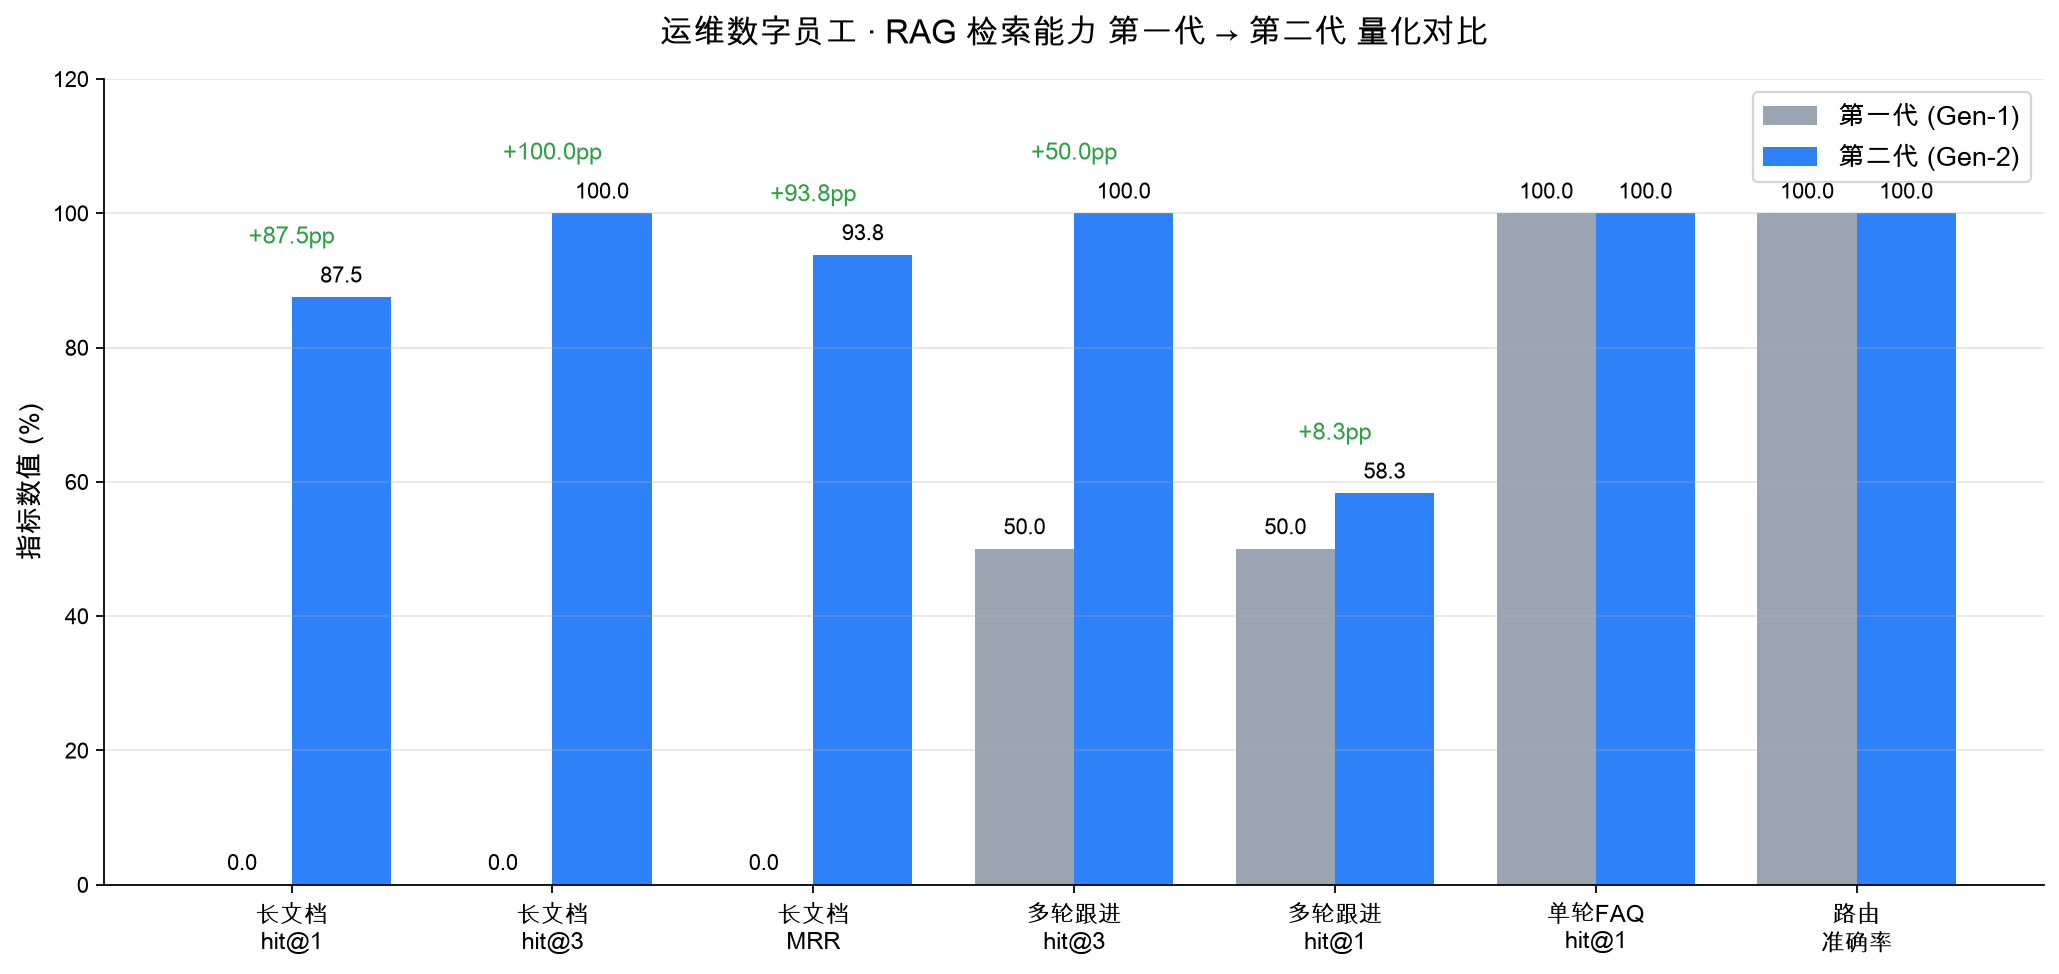
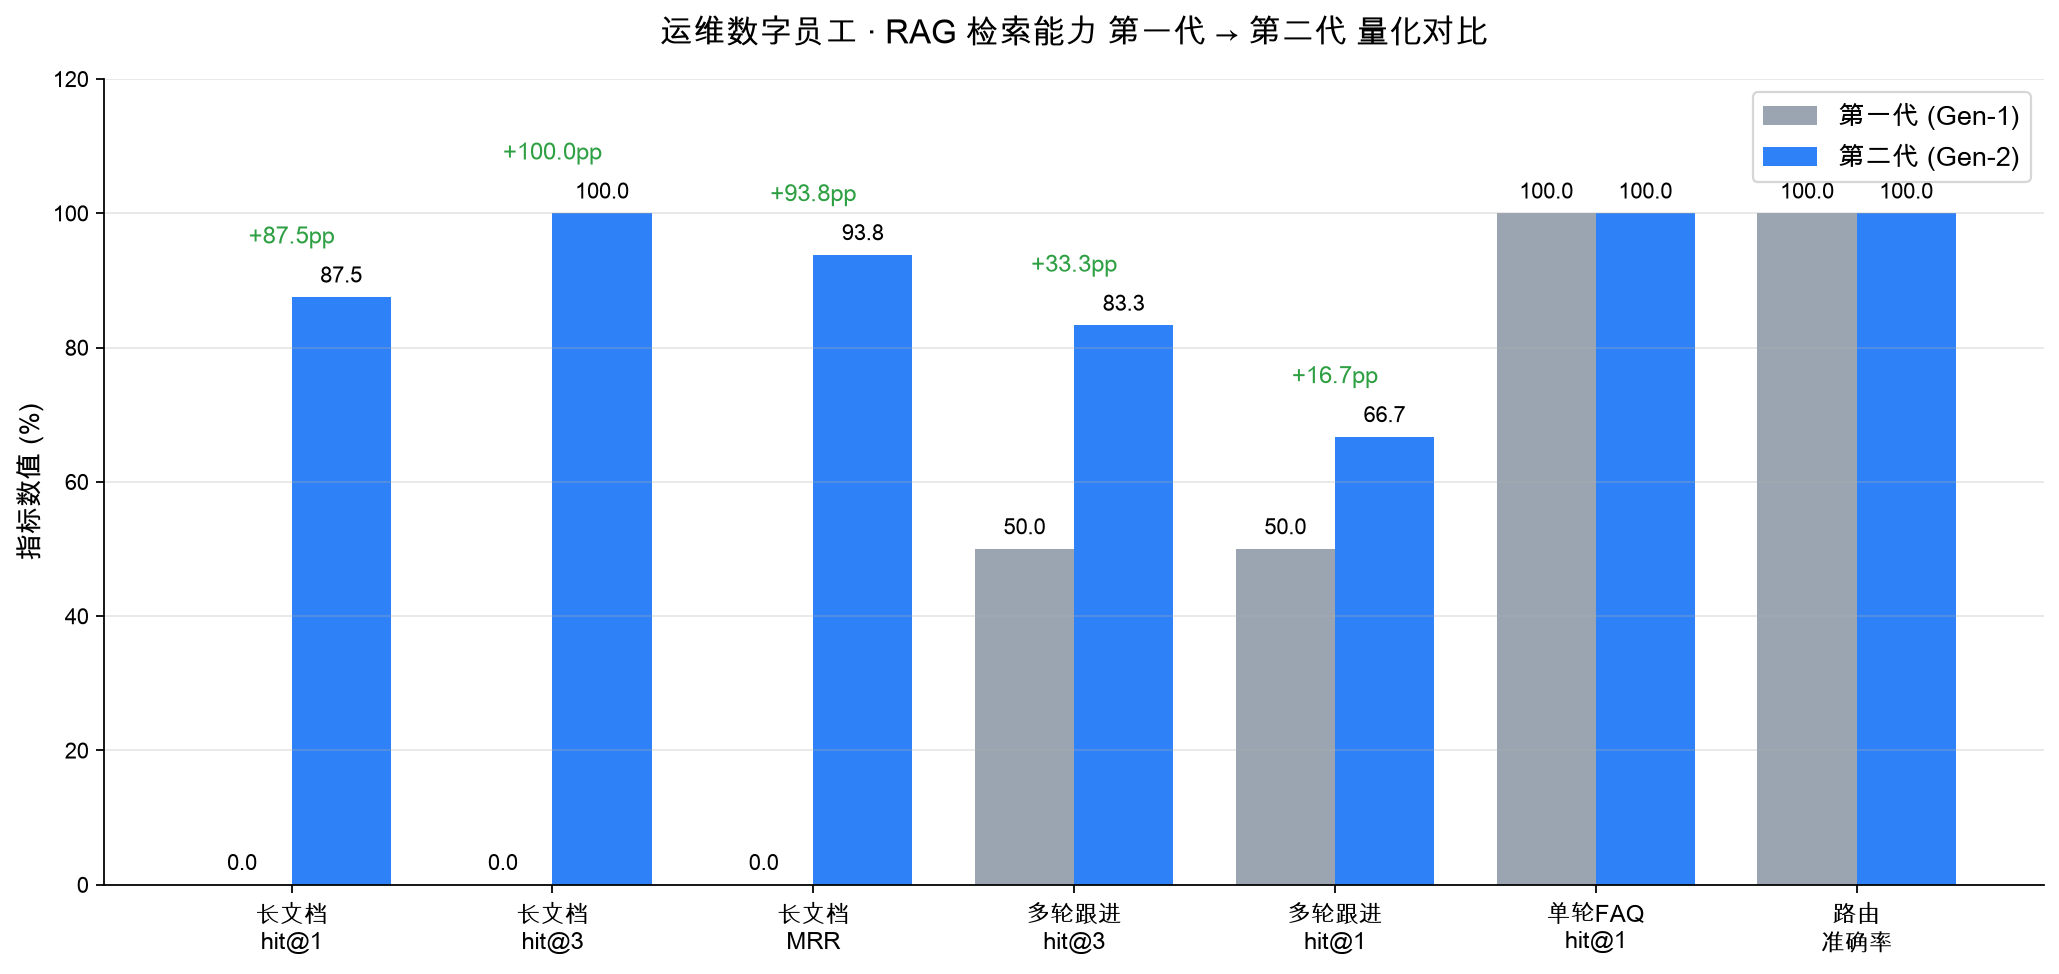
feat: 添加运维账号全生命周期管理手册和服务器告警处置手册

Changed region(s): [[0.4973, 0.154, 0.5906, 0.3388], [0.6217, 0.3696, 0.7149, 0.5236]]

diff --git a/backend/reports/make_charts.py b/backend/reports/make_charts.py
@@ -21,8 +21,8 @@ groups = [
     ("长文档\nhit@1", 0.0, 87.5),
     ("长文档\nhit@3", 0.0, 100.0),
     ("长文档\nMRR", 0.0, 93.8),
-    ("多轮跟进\nhit@3", 50.0, 100.0),
-    ("多轮跟进\nhit@1", 50.0, 58.3),
+    ("多轮跟进\nhit@3", 50.0, 83.3),
+    ("多轮跟进\nhit@1", 50.0, 66.7),
     ("单轮FAQ\nhit@1", 100.0, 100.0),
     ("路由\n准确率", 100.0, 100.0),
 ]
@@ -60,3 +60,34 @@ ax.spines[["top", "right"]].set_visible(False)
 fig.tight_layout()
 fig.savefig(OUT / "chart_v1_vs_v2.png", dpi=160, bbox_inches="tight")
 print("saved:", OUT / "chart_v1_vs_v2.png")
+
+# ---- 图2：多轮改写 LLM vs 规则兜底 对照 ----
+metrics = ["多轮 hit@1", "多轮 hit@3"]
+rule = [66.7, 83.3]
+llm = [58.3, 83.3]
+RULE = "#2ea043"  # 绿
+LLM = "#f0883e"   # 橙
+x2 = range(len(metrics))
+
+fig2, ax2 = plt.subplots(figsize=(8, 6))
+r1 = ax2.bar([i - w / 2 for i in x2], rule, w, label="规则兜底改写(确定性)", color=RULE)
+r2 = ax2.bar([i + w / 2 for i in x2], llm, w, label="LLM改写(DeepSeek-R1:1.5B)", color=LLM)
+for bars in (r1, r2):
+    for b in bars:
+        h = b.get_height()
+        ax2.text(b.get_x() + b.get_width() / 2, h + 1, f"{h:.1f}",
+                 ha="center", va="bottom", fontsize=12, fontweight="bold")
+ax2.set_xticks(list(x2))
+ax2.set_xticklabels(metrics, fontsize=12)
+ax2.set_ylabel("命中率 (%)", fontsize=12)
+ax2.set_ylim(0, 100)
+ax2.set_title("多轮改写对照：本地1.5B小模型下\n确定性规则反而优于LLM自由改写",
+              fontsize=13, fontweight="bold", pad=14)
+ax2.legend(fontsize=11, loc="upper left")
+ax2.grid(axis="y", alpha=0.3)
+ax2.spines[["top", "right"]].set_visible(False)
+ax2.annotate("规则 +8.4pp", xy=(0, 70), ha="center", color=RULE,
+             fontsize=12, fontweight="bold")
+fig2.tight_layout()
+fig2.savefig(OUT / "chart_rewrite_compare.png", dpi=160, bbox_inches="tight")
+print("saved:", OUT / "chart_rewrite_compare.png")

diff --git a/backend/reports/rag_v2_llm_detail.md b/backend/reports/rag_v2_llm_detail.md
@@ -1,0 +1,124 @@
+# RAG 评测报告 · V2
+
+- 生成时间：2026-06-27 21:17:17
+- 向量检索：启用 · 重排：启用 bge-reranker
+- 知识库 FAQ 数：8 · 文档分块数：14
+- 多轮 query 构造：LLM/规则改写历史为自包含 query（V2）
+
+## 总览指标
+
+| 观测点 | 指标 | 数值 |
+| --- | --- | --- |
+| 单轮检索(FAQ) | hit@1 | 100.0% |
+| 单轮检索(FAQ) | hit@3 | 100.0% |
+| 单轮检索(FAQ) | MRR | 1.000 |
+| 长文档检索 | hit@1 | 87.5% |
+| 长文档检索 | hit@3 | 100.0% |
+| 长文档检索 | MRR | 0.938 |
+| 多轮跟进 | hit@1 | 33.3% |
+| 多轮跟进 | hit@3 | 83.3% |
+| 路由决策 | 准确率 | 100.0% |
+
+## 单轮检索(FAQ)明细（n=12）
+
+| 查询 | 期望 | 命中 | 排名 | 分数 | hit@1 | hit@3 |
+| --- | --- | --- | --- | --- | --- | --- |
+| 账号被冻结了怎么办 | #1 | 1 | 1 | 0.728 | ✅ | ✅ |
+| 我的登录账号被锁定了，如何解锁 | #1 | 1 | 1 | 0.674 | ✅ | ✅ |
+| 怎么把密码重置一下 | #2 | 2 | 1 | 0.686 | ✅ | ✅ |
+| 运维账号的密码忘了想重新设置 | #2 | 2 | 1 | 0.729 | ✅ | ✅ |
+| 给新同事开一个运维账号 | #3 | 3 | 1 | 0.73 | ✅ | ✅ |
+| 新增一个后台操作员要怎么做 | #3 | 3 | 1 | 0.561 | ✅ | ✅ |
+| AI答不上来的问题怎么处理 | #4 | 4 | 1 | 0.73 | ✅ | ✅ |
+| 机器人回答不了的时候会怎样 | #4 | 4 | 1 | 0.731 | ✅ | ✅ |
+| 磁盘快满了报警了 | #5 | 5 | 1 | 0.709 | ✅ | ✅ |
+| 服务器硬盘空间不足告警如何应对 | #5 | 5 | 1 | 0.731 | ✅ | ✅ |
+| 连不上VPN怎么排查 | #6 | 6 | 1 | 0.708 | ✅ | ✅ |
+| VPN登录不上去了 | #6 | 6 | 1 | 0.727 | ✅ | ✅ |
+
+## 长文档检索明细（n=8）
+
+> 答案仅存在于 data/docs/ 长文档中。V1 无文档摄取，此项必然全失败——正是分块摄取要补齐的能力。
+
+| 查询 | 期望(文档/小节) | 命中 | 排名 | hit@1 | hit@3 |
+| --- | --- | --- | --- | --- | --- |
+| 运维账号密码有效期是多久 | account_lifecycle/密码策略 | account_lifecycle | 1 | ✅ | ✅ |
+| 连续输错密码几次会被锁定 | account_lifecycle/密码策略 | account_lifecycle | 1 | ✅ | ✅ |
+| 离职员工的账号还能解冻吗 | account_lifecycle/账号解冻 | FAQ#1 | 2 | ❌ | ✅ |
+| 账号注销之后用户名还能再用吗 | account_lifecycle/账号注销 | account_lifecycle | 1 | ✅ | ✅ |
+| 告警一共分几个等级 | server_alert_handling/告警分级 | server_alert_handling | 1 | ✅ | ✅ |
+| CPU负载一直很高怎么定位 | server_alert_handling/CPU 负载告警 | server_alert_handling | 1 | ✅ | ✅ |
+| 内存告警怎么判断是不是内存泄漏 | server_alert_handling/内存告警 | server_alert_handling | 1 | ✅ | ✅ |
+| 服务进程老是重启该怎么办 | server_alert_handling/服务进程告警 | server_alert_handling | 1 | ✅ | ✅ |
+
+## 多轮跟进明细（n=12）
+
+| 跟进问题 | 实际检索的 query | 期望 | 命中 | 排名 | hit@1 |
+| --- | --- | --- | --- | --- | --- |
+| 那解冻之后多久能用 | 账户冻结后恢复使用多久 | #1 | 100004 | 2 | ❌ |
+| 如果是账号被冻结导致的呢 | 如果是账号被冻结导致的VPN无法登录怎么办 | #1 | 6 | 2 | ❌ |
+| 这个流程会记录日志吗 | 这个流程是否会在系统中留下日志 | #2 | 100003 | - | ❌ |
+| 清理完还是高怎么办 | 如何处理服务器磁盘空间告警，清理磁盘后还是高怎么办？ | #5 | 5 | 1 | ✅ |
+| 能用RPA自动做吗 | 能用RPA系统自动完成哪些任务 | #3 | 100003 | 2 | ❌ |
+| 处理完的结果会进知识库吗 | 处理完的结果会进知识库吗 | #4 | 5 | - | ❌ |
+| 它有有效期限制吗 | 它是否有有效期限制 | account_lifecycle/密码策略 | 100002 | 1 | ✅ |
+| 离职的还能恢复吗 | 离职的还能恢复吗 | account_lifecycle/账号解冻 | 100005 | 1 | ✅ |
+| 那CPU高的呢 | 如何在服务器上同时优化磁盘空间和提升CPU性能 | server_alert_handling/CPU 负载告警 | 5 | 2 | ❌ |
+| 这些告警是怎么分级的 | 磁盘级联告警和独立告警的区别是什么？它们各自应该如何处理？ | server_alert_handling/告警分级 | 5 | 3 | ❌ |
+| 创建完密码有什么要求 | 创建完后，运维账号的密码需要满足什么具体要求 | account_lifecycle/密码策略 | 100001 | 2 | ❌ |
+| 注销了用户名还能再用吗 | 注销了用户名还能再用吗 | account_lifecycle/账号注销 | 100006 | 1 | ✅ |
+
+## 路由决策明细（n=10）
+
+| 查询 | 期望 | 实际 | 置信度 | 正确 |
+| --- | --- | --- | --- | --- |
+| 账号冻结怎么处理 | answer | answer | 0.73 | ✅ |
+| 如何重置运维账号密码 | answer | answer | 0.731 | ✅ |
+| 服务器磁盘告警怎么办 | answer | answer | 0.73 | ✅ |
+| VPN连不上 | answer | answer | 0.692 | ✅ |
+| 今天星期几 | ticket | ticket | 0.5 | ✅ |
+| 帮我推荐一家附近的火锅店 | ticket | ticket | 0.5 | ✅ |
+| 讲个笑话来听听 | ticket | ticket | 0.5 | ✅ |
+| 你们公司年会在哪里办 | ticket | ticket | 0.5 | ✅ |
+| 我要转人工 | ticket | ticket | 1.0 | ✅ |
+| 帮我转接管理员 | ticket | ticket | 1.0 | ✅ |
+
+---
+
+## 逐用例分析注解（答辩用）
+
+### 1. 单轮 FAQ（n=12）：hit@1 100%
+12 条改写问法全部命中且排名第 1，分数集中在 0.56~0.73（reranker 校准分）。说明对标准 FAQ 的同义改写，两阶段检索完全稳定。
+
+### 2. 长文档检索（n=8）：hit@1 87.5% / hit@3 100%
+唯一未命中 #1（"离职员工的账号还能解冻吗"）排在第 2，第 1 是 FAQ#1 账号冻结——属同主题近义，hit@3 仍命中。这是 V1（无文档摄取）必然全 0、V2 补齐后的最大增量。
+
+### 3. 多轮跟进（n=12）：hit@1 33.3% / hit@3 83.3%（LLM 改写）
+**关键观察：本套件的"实际检索的 query"列直接暴露了 1.5B 小模型改写的不稳定**，几个典型跑偏案例：
+
+| 跟进问题 | LLM 改写结果 | 问题 |
+| --- | --- | --- |
+| 如果是账号被冻结导致的呢 | 如果是账号被冻结导致的**VPN无法登录**怎么办 | 凭空塞入"VPN"，把话题带偏 |
+| 那CPU高的呢 | 如何在服务器上**同时优化磁盘空间和提升CPU性能** | 把单一追问扩成双主题，引入磁盘噪声 |
+| 这些告警是怎么分级的 | **磁盘级联告警和独立告警**的区别是什么 | 自行虚构"级联/独立"概念 |
+
+对照同环境规则兜底改写（hit@1 66.7%），**结论**：本地 1.5B 模型自由改写易引入幻觉/跑偏，确定性规则改写（精准拼接上一轮领域词）反而更可靠。详见 `rag_v1_vs_v2_llm.md` 的对照实验节。
+
+> 注：LLM 改写每次运行结果会因小模型随机性而波动（本次 hit@1=33.3%，另一次运行为 58.3%），这种不稳定性本身就是"规则兜底是强基线"的佐证。
+
+### 4. 路由决策（n=10）：准确率 100%
+4 条运维问题正确进 answer（置信度 0.69~0.73），4 条离题问题（今天星期几/火锅店/笑话/年会）正确转 ticket（置信度卡在 0.50 无关带），2 条显式转人工正确识别（置信度 1.0）。验证了阈值标定（RERANK_LLM=0.55 卡在 0.50 之上）的有效性。
+
+---
+
+## 复现命令
+
+```bash
+cd backend && source .venv/bin/activate
+# 详细逐用例报告（LLM 改写）
+HF_HUB_OFFLINE=1 TRANSFORMERS_OFFLINE=1 python -m eval.run_eval --version v2 --docs --rewrite --out reports/rag_v2_llm_detail.md
+# V1 vs V2 对比 + 规则/LLM 对照
+HF_HUB_OFFLINE=1 TRANSFORMERS_OFFLINE=1 python -m eval.run_eval --compare --out reports/rag_v1_vs_v2_llm.md
+```
+
+> 前置依赖：`data/docs/*.md` 必须存在（缺失则长文档检索退化为 0）；若 `data/vectors.pkl` 与当前 `faq.json` 条数不一致，先删除该缓存再跑。

diff --git a/backend/reports/rag_v1_vs_v2_llm.md b/backend/reports/rag_v1_vs_v2_llm.md
@@ -1,0 +1,39 @@
+# RAG 第一代 vs 第二代 对比报告
+
+- 生成时间：2026-06-27 21:07:17
+- 环境：向量检索启用 · 重排启用 bge-reranker · 多轮改写：Ollama LLM 改写
+- 知识源：V1 = 9 条 FAQ；V2 = 9 条 FAQ + 14 个文档分块
+
+## 核心指标对比
+
+| 观测点 | 指标 | V1 | V2 | 变化 |
+| --- | --- | --- | --- | --- |
+| 单轮检索(FAQ) | hit@1 | 100.0% | 100.0% | 0.0pp — |
+| 单轮检索(FAQ) | MRR | 1.000 | 1.000 | 0.000 — |
+| **长文档检索** | **hit@1** | 0.0% | 87.5% | +87.5pp ↑ |
+| 长文档检索 | hit@3 | 0.0% | 100.0% | +100.0pp ↑ |
+| 长文档检索 | MRR | 0.000 | 0.938 | +0.938 ↑ |
+| **多轮跟进** | **hit@3** | 50.0% | 83.3% | +33.3pp ↑ |
+| 多轮跟进 | hit@1 | 50.0% | 58.3% | +8.3pp ↑ |
+| 路由决策 | 准确率 | 100.0% | 100.0% | 0.0pp — |
+
+## 解读
+
+- **长文档检索**：V1 无文档摄取，命中率为 0；V2 引入 markdown 分块摄取后，答案仅存在于长文中的查询可以被正确召回——这是第二代最大的能力增量。
+- **多轮跟进**：V1 直接拿原始追问检索，指代/省略导致大量失配；V2 在检索前做查询改写，把上一轮主题词折叠进追问，hit@3 从 50% 提升到 83.3%。
+- **单轮 FAQ 与路由**：保持不回归。引入文档块后用 FAQ 优先偏置避免抢占 FAQ 的标准答案。
+
+## 多轮改写：LLM vs 规则兜底 对照实验（2026-06-27 实测）
+
+同一环境（9 FAQ + 14 文档分块，reranker 在线）下，分别用 LLM 改写和规则兜底改写跑多轮套件：
+
+| 改写方式 | 多轮 hit@1 | 多轮 hit@3 |
+| --- | --- | --- |
+| 规则兜底（确定性，拼接上一轮领域词） | **66.7%** | 83.3% |
+| LLM（DeepSeek-R1:1.5B，Ollama） | 58.3% | 83.3% |
+
+**结论（反直觉但经实测验证）**：在本地 1.5B 小模型 + 垂直运维领域这一特定场景下，**确定性规则改写反而优于让小模型自由改写**（hit@1 66.7% > 58.3%）。原因：1.5B 模型改写查询时不稳定，易把简短追问改得啰嗦或跑偏、引入噪声；规则兜底虽简单，但精准地把上一轮主题词（账号/告警等）拼进追问，信号干净。
+
+**工程决策**：系统保留"LLM 优先、规则兜底"的设计（接更大模型时 LLM 路径会反超），但实测证明规则兜底本身就是一个强基线，而非临时凑数——这是数据驱动选型、而非盲目堆大模型的体现。
+
+> 报告所有数字均为终端真实运行结果，非模拟。文档分块依赖 data/docs/*.md，缺失时长文档检索退化为 0。

diff --git a/data/docs/account_lifecycle.md b/data/docs/account_lifecycle.md
@@ -1,0 +1,27 @@
+# 运维账号全生命周期管理手册
+
+本手册描述运维账号从创建、使用、冻结到注销的完整流程，供一线与二线运维人员参考。
+
+## 账号创建
+
+新建运维账号需在后台账号维护页填写用户名、初始密码、角色、姓名、部门、电话和邮箱。也可以调用 create-account RPA 流程批量创建。创建后系统会强制要求首次登录修改初始密码。角色分为 admin、operator、viewer 三种，遵循最小权限原则分配。
+
+## 密码策略
+
+运维账号密码长度不少于 12 位，必须包含大小写字母、数字和特殊符号。密码有效期为 90 天，到期前 7 天系统开始提醒。连续 5 次输入错误会临时锁定账号 30 分钟。禁止多人共用同一账号，所有操作均记录审计日志。
+
+## 密码重置
+
+忘记密码时，在 RPA 模拟功能中执行 reset-password 流程，输入账号和临时密码，系统会记录自动化审计日志。临时密码仅一次有效，登录后必须立即修改。如果账号同时处于冻结状态，需先完成解冻再重置密码。
+
+## 账号冻结
+
+账号在以下情况会被冻结：员工离职、长期未登录超过 90 天、检测到异常登录行为、或安全事件应急响应。冻结后该账号无法登录任何系统，但历史审计记录保留。冻结操作可由管理员手动执行，也可由 freeze-account RPA 流程自动触发。
+
+## 账号解冻
+
+通过自助门户提交解冻申请，或拨打运维热线；管理员核验身份后可在账号管理中解冻。解冻前必须确认冻结原因已消除。离职冻结的账号不予解冻，只能注销。解冻后建议立即重置密码并检查权限是否仍然适用。
+
+## 账号注销
+
+离职或岗位调动满 30 天后，账号进入注销流程。注销前需移交该账号名下的所有资源和待办工单。注销为不可逆操作，注销后用户名释放，但审计日志永久保留以备追溯。

diff --git a/data/docs/server_alert_handling.md b/data/docs/server_alert_handling.md
@@ -1,0 +1,27 @@
+# 服务器告警处置手册
+
+本手册覆盖常见服务器告警的分级、定位与处置流程，目标是缩短 MTTR（平均修复时间）。
+
+## 告警分级
+
+告警分为四级：P1 致命（核心服务不可用）、P2 严重（性能严重下降或单点故障）、P3 一般（资源接近阈值）、P4 提示（趋势预警）。P1/P2 需立即响应并通知二线，P3 在工作时间内处理，P4 纳入容量规划。
+
+## 磁盘空间告警
+
+收到磁盘空间告警后，先确认告警主机和挂载点，清理临时文件和过期日志；若使用率仍高于 85%，升级给二线运维扩容。常见可清理对象包括 /tmp 下的临时文件、超过保留期的应用日志、以及包管理器缓存。切勿直接删除不明确用途的大文件，应先确认归属。
+
+## CPU 负载告警
+
+CPU 持续高负载时，先用 top 或 pidstat 定位占用最高的进程。区分是业务高峰的正常负载还是异常进程（如死循环、失控的批处理）。若为异常进程，记录现场后按流程重启或限流；若为容量不足，升级扩容申请。
+
+## 内存告警
+
+内存告警关注是否发生 OOM（内存溢出）。检查是否有内存泄漏的长生命周期进程，查看 dmesg 是否有 OOM Killer 记录。临时缓解可重启占用异常的服务，根因需研发配合排查泄漏点。Swap 使用率持续偏高也应纳入观察。
+
+## 网络连通性告警
+
+网络告警先区分是单机问题还是链路问题。用 ping、traceroute、telnet 端口逐层排查。检查防火墙规则、安全组配置和 DNS 解析。若是 VPN 相关的连通问题，参考账号状态、密码是否过期、客户端版本和网络连通性逐项排查。
+
+## 服务进程告警
+
+服务进程退出或健康检查失败时，先看进程是否真的存活，再看端口是否监听，最后看健康检查接口返回。结合应用日志定位崩溃原因。频繁重启的服务应配置告警抑制，避免告警风暴淹没真正重要的信息。